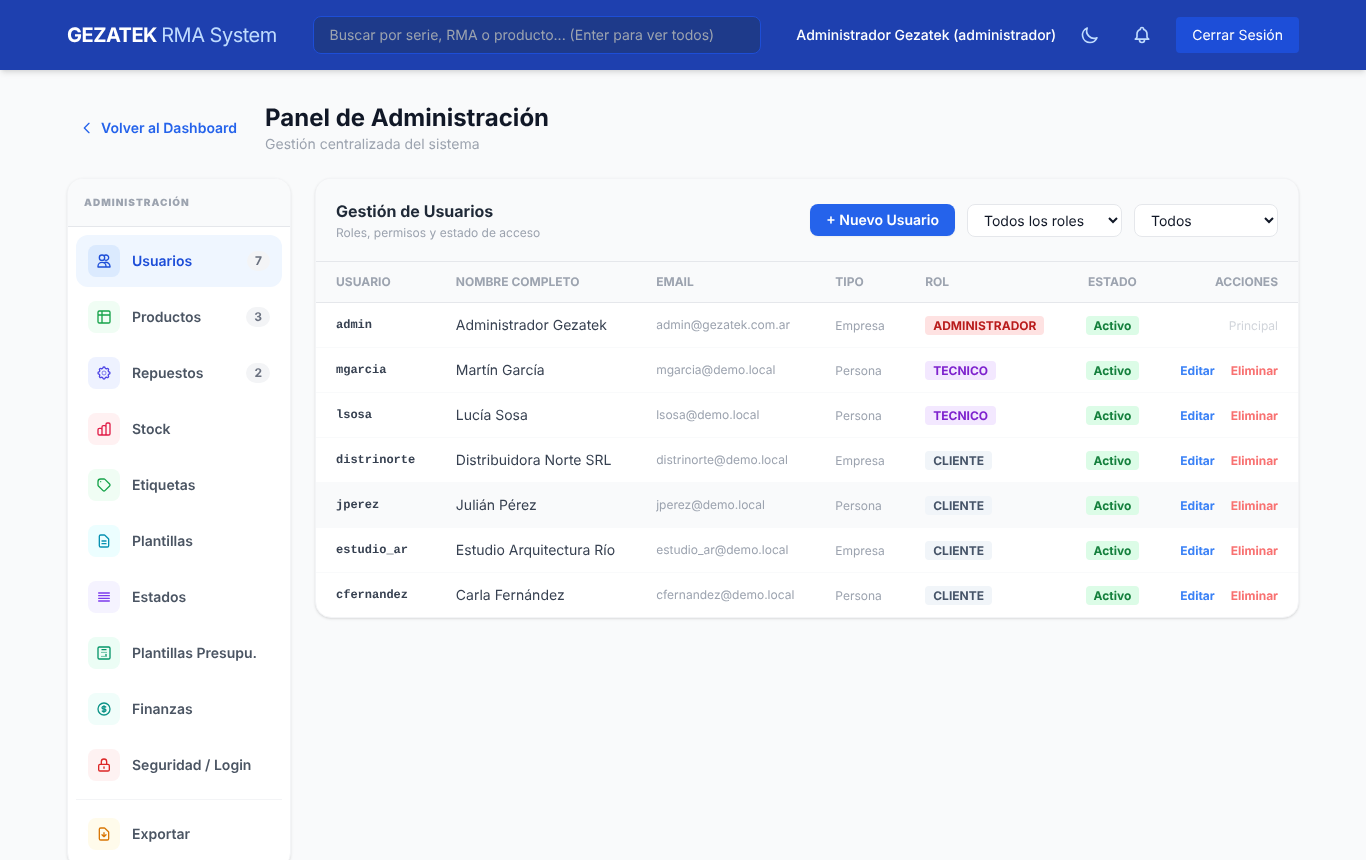
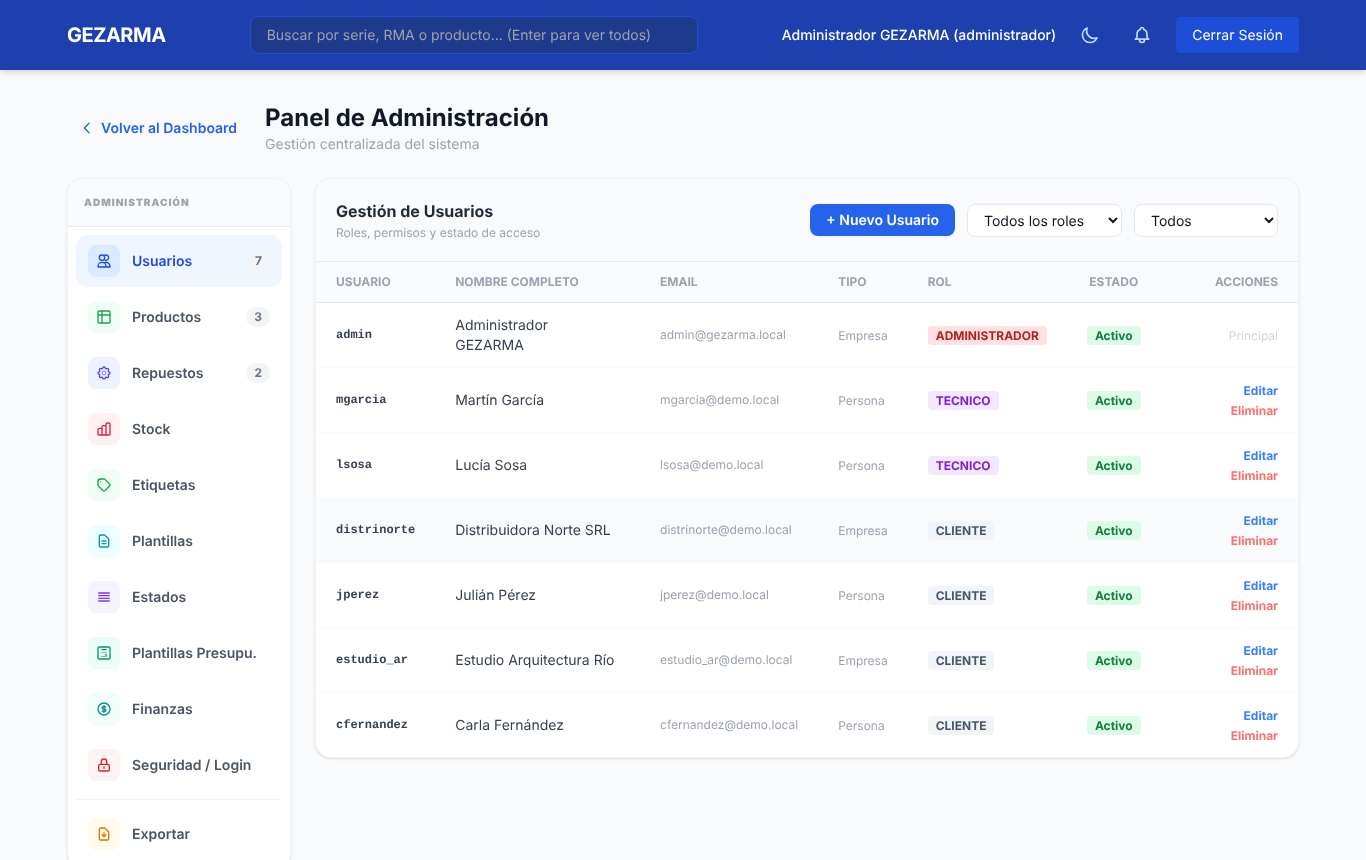
chore: cambiar el nombre del proyecto de GEZATEK a GEZARMA
- Encabezado, login, título de la pestaña, comprobante impreso y título de
  la API dicen GEZARMA (donde decía "GEZATEK RMA System" queda GEZARMA,
  para no repetir RMA).
- La preferencia de modo oscuro se guarda en 'gezarma-dark'; se sigue
  leyendo la clave vieja 'gezatek-dark' para no perder la de nadie.
- Admin inicial de bases nuevas: "Administrador GEZARMA" y email por
  defecto admin@gezarma.local. Las bases existentes no se modifican.
- La SECRET_KEY por defecto no cambia: cambiarla cerraría las sesiones de
  las instalaciones sin .env.
- Capturas del README regeneradas.

diff --git a/frontend/index.html b/frontend/index.html
@@ -3,7 +3,7 @@
 <head>
     <meta charset="UTF-8">
     <meta name="viewport" content="width=device-width, initial-scale=1.0">
-    <title>GEZATEK - Gestión de RMA</title>
+    <title>GEZARMA - Gestión de RMA</title>
     <script src="https://cdn.tailwindcss.com"></script>
     <script src="https://cdn.jsdelivr.net/npm/chart.js"></script>
     <link href="https://fonts.googleapis.com/css2?family=Inter:wght@300;400;500;600;700&display=swap" rel="stylesheet">
@@ -80,7 +80,7 @@
     <!-- Navigation Bar -->
     <nav id="navbar" class="bg-blue-800 text-white shadow-md hidden">
         <div class="container mx-auto px-6 py-4 flex justify-between items-center">
-            <h1 class="text-xl font-bold tracking-tight">GEZATEK <span class="font-normal text-blue-200">RMA System</span></h1>
+            <h1 class="text-xl font-bold tracking-tight">GEZARMA</h1>
             <div id="search-container" class="hidden flex-1 max-w-md mx-8">
                 <div class="relative">
                     <input type="text" id="global-search"
@@ -157,7 +157,9 @@
     <script>
         // Dark mode — persists via localStorage, applies before render
         (function() {
-            if (localStorage.getItem('gezatek-dark') === '1') {
+            // 'gezatek-dark' es la clave anterior al cambio de nombre: se sigue leyendo
+            const pref = localStorage.getItem('gezarma-dark') ?? localStorage.getItem('gezatek-dark');
+            if (pref === '1') {
                 document.documentElement.classList.add('dark');
             }
         })();

diff --git a/frontend/js/app.js b/frontend/js/app.js
@@ -1142,7 +1142,7 @@ const app = {
         const t = ui._ticketCache?.[ui.currentTicketId];
         if (!t) { window.print(); return; }
 
-        const logo = 'GEZATEK RMA System';
+        const logo = 'GEZARMA';
         const now  = new Date().toLocaleDateString('es-AR', { day:'2-digit', month:'2-digit', year:'numeric' });
         const status = t.estado || '';
         const garantia = t.en_garantia ? 'SÍ — Dentro del período de garantía' : 'No';
@@ -1177,7 +1177,7 @@ const app = {
             @media print { body { padding: 20px; } }
         </style></head><body>
         <div class="header">
-            <div><div class="logo">GEZATEK <span>RMA System</span></div><div style="font-size:9pt;color:#6b7280;margin-top:2px;">Comprobante de Servicio Técnico</div></div>
+            <div><div class="logo">GEZARMA</div><div style="font-size:9pt;color:#6b7280;margin-top:2px;">Comprobante de Servicio Técnico</div></div>
             <div class="meta"><div>Emitido: ${now}</div><div>Documento RMA oficial</div></div>
         </div>
 
@@ -1240,7 +1240,7 @@ const app = {
         </div>
 
         <div class="footer">
-            <span>GEZATEK RMA System — Documento generado automáticamente</span>
+            <span>GEZARMA — Documento generado automáticamente</span>
             <span>${t.numero_rma} · ${now}</span>
         </div>
         </body></html>`;

diff --git a/frontend/js/ui.js b/frontend/js/ui.js
@@ -6,7 +6,8 @@
 const ui = {
     // ── Dark mode ──────────────────────────────────────────────────────────────
     initDarkMode() {
-        const isDark = localStorage.getItem('gezatek-dark') === '1';
+        // 'gezatek-dark' es la clave anterior al cambio de nombre: se sigue leyendo
+        const isDark = (localStorage.getItem('gezarma-dark') ?? localStorage.getItem('gezatek-dark')) === '1';
         document.documentElement.classList.toggle('dark', isDark);
         document.getElementById('icon-sun')?.classList.toggle('hidden', !isDark);
         document.getElementById('icon-moon')?.classList.toggle('hidden', isDark);
@@ -14,7 +15,7 @@ const ui = {
     toggleDark() {
         const html = document.documentElement;
         const nowDark = html.classList.toggle('dark');
-        localStorage.setItem('gezatek-dark', nowDark ? '1' : '0');
+        localStorage.setItem('gezarma-dark', nowDark ? '1' : '0');
         document.getElementById('icon-sun')?.classList.toggle('hidden', !nowDark);
         document.getElementById('icon-moon')?.classList.toggle('hidden', nowDark);
     },

diff --git a/frontend/partials/login.html b/frontend/partials/login.html
@@ -6,7 +6,7 @@
             </svg>
         </div>
         <h2 class="text-3xl font-bold text-gray-800">Bienvenido</h2>
-        <p class="text-gray-500 mt-2">GEZATEK · Sistema RMA</p>
+        <p class="text-gray-500 mt-2">GEZARMA · Sistema de gestión de RMA</p>
     </div>
 
     <!-- Inline error banner (hidden by default) -->

diff --git a/frontend/js/budget.js b/frontend/js/budget.js
@@ -1,5 +1,5 @@
 /**
- * budget.js — Presupuesto (budget) management for Gezatek RMA.
+ * budget.js — Presupuesto (budget) management for GEZARMA.
  * Handles:
  *   - Budget card on ticket detail (create/edit/state transitions/versions)
  *   - Admin: budget item templates CRUD

diff --git a/frontend/js/notifications.js b/frontend/js/notifications.js
@@ -1,5 +1,5 @@
 /**
- * notifications.js — In-app notification bell for Gezatek RMA.
+ * notifications.js — In-app notification bell for GEZARMA.
  * Polls the server every 30s while logged in.
  * Injected into the navbar next to the logout button.
  */

diff --git a/backend/app/config.py b/backend/app/config.py
@@ -18,7 +18,7 @@ load_dotenv(ROOT_DIR / ".env", override=False)
 
 log = logging.getLogger("uvicorn.error")  # sale junto con los logs de uvicorn
 
-_DEFAULT_SECRET_KEY = "gezatek_super_secret_key_123"
+_DEFAULT_SECRET_KEY = "gezatek_super_secret_key_123"  # valor histórico: cambiarlo cerraría las sesiones de quien no tenga .env
 _DEFAULT_ADMIN_PASSWORD = "admin123"
 
 
@@ -33,7 +33,7 @@ CORS_ORIGINS = _list(os.getenv("CORS_ORIGINS", "*"))
 
 # ── Admin inicial (usuario "admin"; solo se usa al crear una base nueva) ─────
 ADMIN_PASSWORD = os.getenv("ADMIN_PASSWORD") or _DEFAULT_ADMIN_PASSWORD
-ADMIN_EMAIL = os.getenv("ADMIN_EMAIL", "admin@gezatek.com.ar")
+ADMIN_EMAIL = os.getenv("ADMIN_EMAIL", "admin@gezarma.local")
 
 # ── Zona horaria ─────────────────────────────────────────────────────────────
 # Las fechas se guardan en UTC. TIMEZONE es la zona del negocio: se usa para lo

diff --git a/backend/app/main.py b/backend/app/main.py
@@ -20,7 +20,7 @@ async def lifespan(app: FastAPI):
     seed_data()
     yield
 
-app = FastAPI(title="GEZATEK RMA System API", lifespan=lifespan)
+app = FastAPI(title="GEZARMA API", lifespan=lifespan)
 # El frontend se sirve desde esta misma app, así que no necesita CORS.
 # Solo hace falta si otro origen consume la API (CORS_ORIGINS en .env; vacío = sin CORS).
 if config.CORS_ORIGINS:
@@ -70,7 +70,7 @@ def seed_data():
         admin = models.Usuario(
             username="admin",
             password_hash=auth.get_password_hash(config.ADMIN_PASSWORD),
-            nombre="Administrador Gezatek",
+            nombre="Administrador GEZARMA",
             email=config.ADMIN_EMAIL,
             rol=models.UserRole.ADMINISTRADOR,
             tipo_cliente=models.UserType.EMPRESA,

diff --git a/README.md b/README.md
@@ -99,7 +99,7 @@ Todo se configura con variables de entorno o con un archivo `.env` en la raíz (
 | `ACCESS_TOKEN_EXPIRE_MINUTES` | `1440` (1 día) | Duración de la sesión. |
 | `CORS_ORIGINS` | `*` | Orígenes externos que pueden llamar a la API, separados por coma. El frontend se sirve desde la misma app, así que normalmente conviene dejarla **vacía** (CORS desactivado). |
 | `ADMIN_PASSWORD` | `admin123` | Contraseña del `admin` inicial (solo al crear la base). |
-| `ADMIN_EMAIL` | `admin@gezatek.com.ar` | Email del `admin` inicial. |
+| `ADMIN_EMAIL` | `admin@gezarma.local` | Email del `admin` inicial. |
 | `TIMEZONE` | `America/Argentina/Buenos_Aires` | Zona horaria del negocio (nombre IANA). Las fechas se guardan en UTC y cada navegador las muestra en su hora local; esta zona se usa para las exportaciones a CSV/Excel. |
 | `DATABASE_URL` | `sqlite:///./rma_system.db` | Base de datos (cualquier URL de SQLAlchemy). En Docker está fija a `/data`. |
 | `UPLOAD_DIR` | `uploads` | Carpeta de adjuntos. En Docker está fija a `/data/uploads`. |
